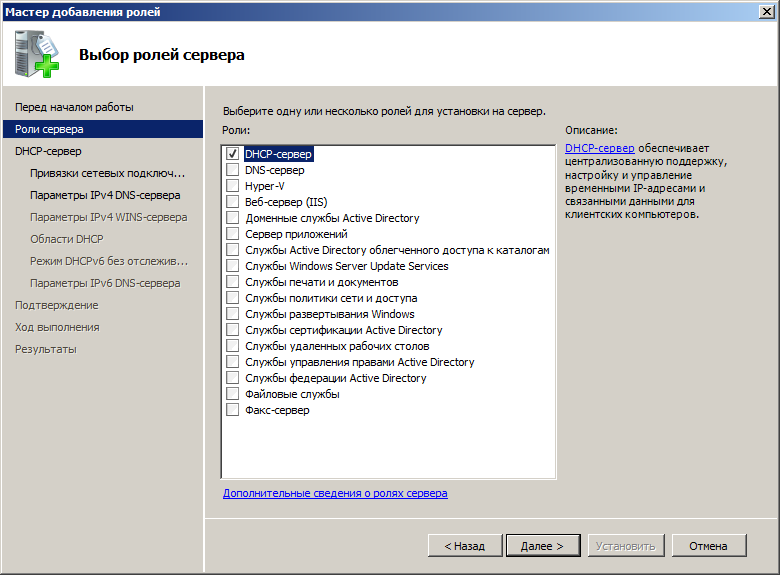
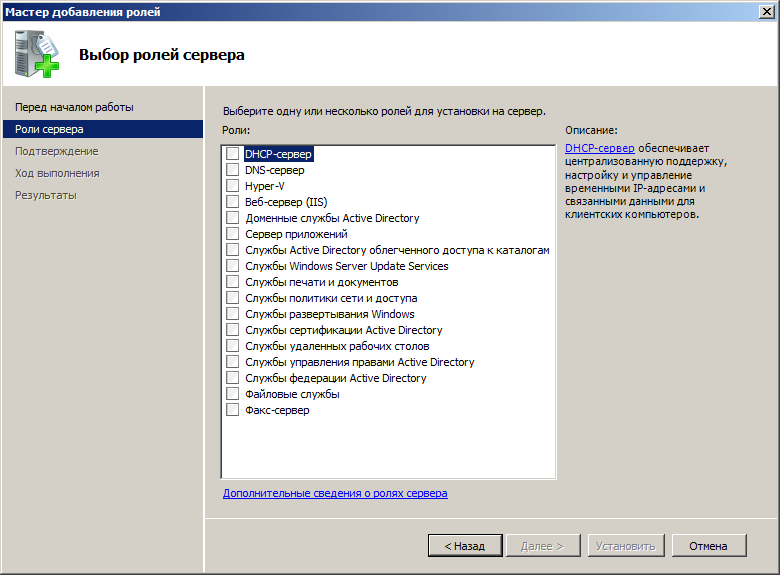
prepare to ad subsection

Changed region(s): [[0.0, 0.2365, 0.2462, 0.6209], [0.5538, 0.9165, 0.7692, 0.9757]]

diff --git a/WinSrv2k8.tex b/WinSrv2k8.tex
@@ -100,20 +100,85 @@
 \caption{Окно задач начальной настройки}
 \label{igas12}
 \end{figure}
-\newpage
 Начнем с настройки сети, перейдем в раздел \textit{Настроить сеть} и зайдем в свойства нашего подключения.
 \begin{figure}[H]
 \center{\includegraphics{ws2k8/setup_2.png}}
 \caption{Окно задач начальной настройки}
 \label{igas13}
 \end{figure}
-Выберем \textit{Протокол Интернета версии 4 (TCP/IPv4)} и кликнув по кнопке \textit{Cвойства} настроим наше подключение как показанно на рисунке \ref{igas14}.
+Отключим \textit{Протокол Интернета версии 6 (TCP/IPv6)}, затем выберем \textit{Протокол Интернета версии 4 (TCP/IPv4)} и кликнув по кнопке \textit{Cвойства} настроим наше подключение как показанно на рисунке \ref{igas14}.
 \begin{figure}[H]
 \center{\includegraphics[scale=1]{ws2k8/setup_3.png}}
 \caption{Окно задач начальной настройки}
 \label{igas14}
 \end{figure}
+Укажем имя нашего компьютера, для этого нажмем \emph{Указать имя компьютера и домен}, а затем на кнопку \emph{Изменить...}, в поле \emph{Имя компьютера} впишем \texttt{server}, применим изменения и перезагрузимся.
+\par
 Также следует настроить автоматическое обновление системы, чтобы Ваш сервер был более защищен. Перейдем в раздел \textit{Включить автоматическое обновление и обратную связь}, его можно найти в \textit{Задачах начальной настройки} (рис.~\ref{igas12}). В появившемя окне выбираем \textit{Включить автоматическое обновление Windows и сбор отзывов и предложений}. После этого первоначальную проверку сделаем вручную чтобы не ждать пока это сделает систем по расписанию. Перейдем в раздел \textit{Загрузить и установить обновления} и нажмем на кнопку \textit{Проверка обновлений}, а после как система проверит наличие обновлений нажимаем кнопку \textit{Установить обновления}.
+\newpage
 \subsection{DHCP}
-Приступим к добавлению первой роли нашего сервера -- DHCP. Из \textit{окна начальной настройки} (\ref{igas12}) в разделе \textit{Настроить этот сервер} нажмем на \textit{Добавить роли}
+Приступим к добавлению первой роли нашего сервера -- DHCP. Из \textit{окна начальной настройки} (рис.~\ref{igas12}) в разделе \textit{Настроить этот сервер} нажмем на \textit{Добавить роли}.
+\par
+В окне \textit{мастера добавления ролей} нажимаем \textit{далее}, чтобы пропустить раздел \textit{Перед началом работы}, и увидим раздел \textit{Выбор ролей сервера} (рис.~\ref{igas16}), отметим \textit{DHCP-сервер} и нажмем \textit{Далее}, увидим описание роли и еще раз нажмем \textit{Далее}.
+\begin{figure}[H]
+\center{\includegraphics[scale=0.6]{ws2k8/dhcp_2.png}}
+\caption{Выбор ролей сервера}
+\label{igas16}
+\end{figure}
+В разделе \textit{Выбор привязки сетевого подключения} (рис.~\ref{igas18}) проверяем чтобы был отмечен только IP нашего внутреннего интерфейса и жмем \textit{далее}.
+\begin{figure}[H]
+\center{\includegraphics[scale=0.6]{ws2k8/dhcp_4.png}}
+\caption{Выбор привязки сетевого подключения}
+\label{igas18}
+\end{figure}
+Укажем родительский домен \textit{vsi.com} и основной DNS сервер \textit{192.168.0.1}, а дополнительный оставим пустым. Сейчас мы указали адрес нашего сервера, т.к. в дальнейшем мы будем использовать его в виде DNS сервера.
+\begin{figure}[H]
+\center{\includegraphics[scale=0.6]{ws2k8/dhcp_5.png}}
+\caption{Указать параметры IPv4 DNS-сервера}
+\label{igas19}
+\end{figure}
+На следующем экране выберем \textit{WINS не требуется для приложений в этой сети}, т.к. по сути и функционалу WINS -- DNS для NetBIOS, и использовался в старых версиях Windows и оставлен для совместимости.
+\par
+На экране \textit{Добавление или изменение DHCP-областей} нажмем на кнопку \textit{Добавить...} и заполним данные как на рисунке \ref{igas22}.
+\begin{figure}[H]
+\center{\includegraphics[scale=0.6]{ws2k8/dhcp_8.png}}
+\caption{Добавление области}
+\label{igas22}
+\end{figure}
+На следующем экране выберем \textit{Отключить режим без отслеживания состояния DHCPv6 для этого сервера}. Жмем \textit{Далее} затем \textit{Установить}, после завершения установки нажимаем \textit{Закрыть}
+\par
+Для проверки работоспособности DHCP запустим нашу рабочую станцию на Windows 7, в \textit{настройках подключения по локальной сети} отключим \textit{Протокол Интернета версии 6 (TCP/IPv6)}, а в свойствах \emph{Протокол Интернета версии 4 (TCP/IPv4)} проверим что получение DHCP и DNS происходит автоматически.
+\par
+Теперь давайте проверим полученные данные, для этого зайдем в \textit{Пуск \DLE Все программы \DLE Стандартные \DLE Командная строка} и введем \texttt{ipconfig /all}. Теперь сравним IPv4-адрес и DNS-сервер с теми которые мы выставили на сервере.
+\par
+Теперь давайте настроим выдачу IP-адреса по MAC-адресу, для этого запишем наш MAC-адрес(Физический адрес) из только что выведенной информации в \emph{командной строке}.
+\par
+Теперь на сервере зайдем в \emph{Пуск \DLE Администрирование \DLE DHCP}. Откроем наш сервер \emph{\DLE IPv4 \DLE Рабочие области} и нажмем правой на \emph{Резервирование} и выберем \emph{Создать резервирование...}. Введем \emph{Имя клиента: client, IP-адрес: 192.168.0.20 и MAC-адрес (тот который мы записали на клиентской машине)}.
+\par
+На рабочей станции зайдем в \emph{Панель управления \DLE Сеть и Интернет \DLE Сетевые подключения} в контекстном меню подключения по локальной сети нажмем \emph{Отключить}, а потом \emph{Включить}.
+\par
+Теперь давайте проверим полученные данные, для этого зайдем в \textit{Пуск \DLE Все программы \DLE Стандартные \DLE Командная строка} и введем \texttt{ipconfig /all}. Теперь сравним IPv4-адрес и DNS-сервер с теми которые мы выставили на сервере.
+\newpage
 \subsection{DNS}
+Теперь давайте добавим еще одну роль нашего сервера -- DNS. Из \textit{окна начальной настройки} (рис.~\ref{igas12}) в разделе \textit{Настроить этот сервер} нажмем на \textit{Добавить роли}.
+\par
+В окне \textit{мастера добавления ролей} нажимаем \textit{далее}, чтобы пропустить раздел \textit{Перед началом работы}, и увидим раздел \textit{Выбор ролей сервера} (рис.~\ref{igas16}), отметим \textit{DNS-сервер} и нажмем \textit{Далее}, увидим описание роли и еще раз нажмем \textit{Далее}, затем \emph{Установить}, а потом \emph{Закрыть}.
+\par
+На сервере зайдем в \emph{Пуск \DLE Администрирование \DLE DNS}. В меню зайдем в пункт \emph{Действие \DLE Создать новую зону...}.
+\par
+Щелкните на кнопку \emph{Далее} и в следующем окне мастера выберите \emph{Основная зона}, потом выберите \emph{Зону прямого просмотра}, введите имя зоны - \emph{vsi.com}, файл зоны можно оставить по умолчанию, в целях безопасности \emph{запретим динамические обновления}, нажмем \emph{Готово}.
+\par
+Войдем в нашу зону как показанно на рисунке \ref{dnsi1}, кликнем по ней правой кнопкой мыши и выберем \emph{Создать узел (A или AAAA)...} и заполним как показанно на рисунке \ref{dnsi2}
+\begin{figure}[H]
+\center{\includegraphics[scale=0.6]{ws2k8/dns_1.png}}
+\caption{Диспетчер DNS}
+\label{dnsi1}
+\end{figure}
+\begin{figure}[H]
+\center{\includegraphics[scale=0.6]{ws2k8/dns_2.png}}
+\caption{Диспетчер DNS}
+\label{dnsi2}
+\end{figure}
+На рабочей станции откройте \emph{Командную строку}, для этого зайдем в \textit{Пуск \DLE Все программы \DLE Стандартные \DLE Командная строка} и введем \texttt{ping server.vsi.com}. Если обмен пакетами прошел без потерь, то настройка прошла успешно.
+\par
+Если Вы захотите сделать домен для рабочей станции, то сначала добавте зарезервированный адрес для нее в DHCP и только потом к этому адресу привязывайте домен.
